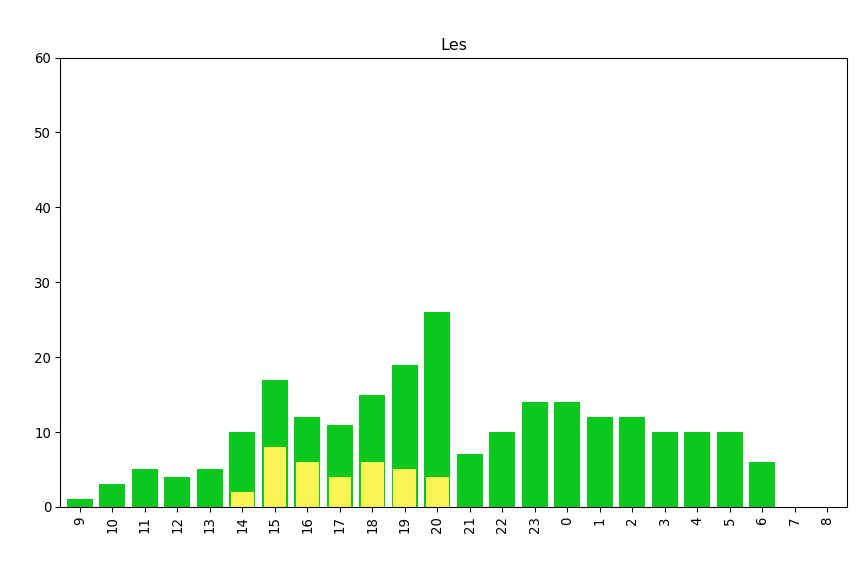
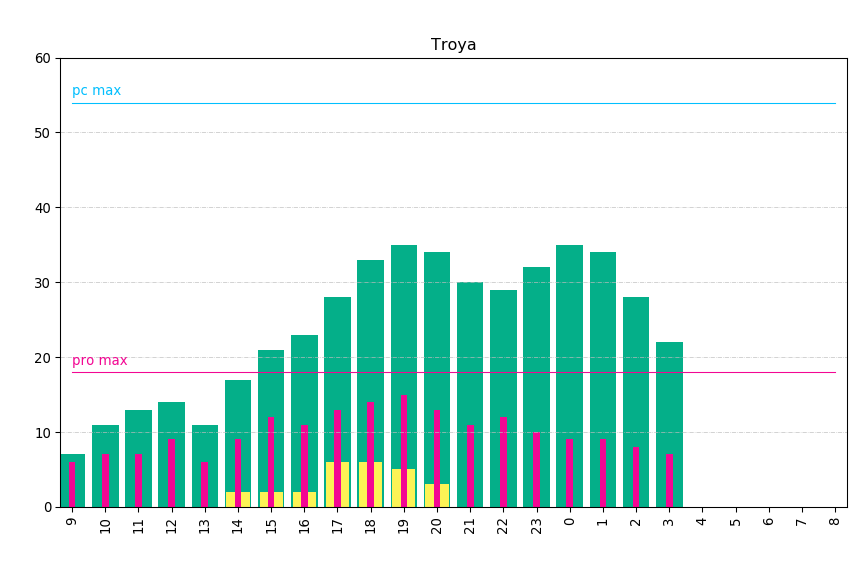
123

diff --git a/programm/gui/graph.py b/programm/gui/graph.py
@@ -247,6 +247,11 @@ class GraphicsWidget(QtWidgets.QWidget):
                         controller_data=controller_data,
                         db_path=bd_path)
         stat_data = dproc.get_data(**data_stat_arg)
+
+
+        count_measurements_hour = dproc.measurements_hour(stat_data)
+
+
         if stat_data is None:
             log.warning("файл не является базой данных")
             return
@@ -254,6 +259,12 @@ class GraphicsWidget(QtWidgets.QWidget):
             log.warning("нет данных")
             return
         else:
+            every_hour_data = self._get_data_every_time(stat_data)
+
+            h_hours = every_hour_data["mhour"]
+            h_visitor = [int(round(x)) for x in every_hour_data["visitor"]]
+            h_school = [int(round(x)) for x in every_hour_data["school"]]
+
 
             pro_comp_list = map(str,
                                 current_club_cfg["pro_comp_list"])
@@ -263,44 +274,70 @@ class GraphicsWidget(QtWidgets.QWidget):
                             db_path=bd_path)
             data_table = dproc.get_data(**data_table_arg)
 
+            # пк указанные в списке pro_comp_list
             pro_data = data_table[
                 data_table["ncomp"].isin(pro_comp_list)]
 
             include_active_classes = current_club_cfg[
                 "include_active_classes"]
 
+            # пк класс которых значится как активные
+            # активные классы указны в списке include_active_classes
             active_pro_data = pro_data[
                 pro_data["class"].isin(include_active_classes)]
-            pro_average = dproc.average_hourly_values(active_pro_data, ["visitor", "school"])
+            # pd.DataFrame columns=["mhour","mean"] mean:float(0, ..)
+            # средние показатели в посетителях покаждому часу
+            pro_mean = dproc.mean_hourly_data(h_hours,
+                                              count_measurements_hour,
+                                              active_pro_data)
+            h_pro = [int(round(x)) for x in pro_mean["mean"]]
+
 
 
 
 
             # print(active_pro_data)
 
-            # every_hour_data = self._get_data_every_time(stat_data)
-            # print(every_hour_data)
-            # h_hours = every_hour_data["mhour"]
-            # h_visitor = [int(round(x)) for x in every_hour_data["visitor"]]
-            # h_school = [int(round(x)) for x in every_hour_data["school"]]
 
-            # self.plot_view.plot(h_hours,
-            #                     h_visitor,
-            #                     color=current_club_cfg["color"],
-            #                     y_limit=(0, current_club_cfg["graphics_max"]),
-            #                     width=current_club_cfg["width"],
-            #                     name="visitors", title=club_name)
-            #
-            # self.plot_view.plot(h_hours,
-            #                     h_school,
-            #                     color=current_club_cfg["school_color"],
-            #                     y_limit=(0, current_club_cfg["graphics_max"]),
-            #                     width=current_club_cfg["width"]-0.1,
-            #                     name="school")
-            #
-            #
-            #
-            # self.show_plot(self.plot_view)
+
+            self.plot_view.plot(h_hours,
+                                h_visitor,
+                                color=current_club_cfg["color"],
+                                y_limit=(0, current_club_cfg["graphics_max"]),
+                                width=current_club_cfg["width"],
+                                name="visitors", title=club_name)
+
+            self.plot_view.plot(h_hours,
+                                h_school,
+                                color=current_club_cfg["school_color"],
+                                y_limit=(0, current_club_cfg["graphics_max"]),
+                                width=current_club_cfg["width"]-0.1,
+                                name="school")
+
+
+
+            self.plot_view.plot(h_hours,
+                                h_pro,
+                                color=current_club_cfg["pro_color"],
+                                y_limit=(0, current_club_cfg["graphics_max"]),
+                                width=0.2,
+                                name="pro")
+
+            self.plot_view.add_horizontal_line(
+                current_club_cfg["max"],
+                len(h_pro),
+                color=current_club_cfg["max_pc_color"],
+                text="pc max")
+
+            self.plot_view.add_horizontal_line(
+                len(current_club_cfg["pro_comp_list"]),
+                len(h_hours),
+                color=current_club_cfg["pro_color"],
+                text="pro max")
+
+
+            # self.plot_view.set_grid()
+            self.show_plot(self.plot_view)
 
 
             # visitor_every = self._get_visitor_every_time(every_hour_data, "visitor")
@@ -383,11 +420,11 @@ class GraphicsWidget(QtWidgets.QWidget):
         #                     color=current_club_cfg["max_pc_color"],
         #                     text="pc max")
         #
-        #                 self.plot_view.add_horizontal_line(
-        #                     len(current_club_cfg["pro_comp_list"]),
-        #                     len(time),
-        #                     color=current_club_cfg["pro_color"],
-        #                     text="pro max")
+                        # self.plot_view.add_horizontal_line(
+                        #     len(current_club_cfg["pro_comp_list"]),
+                        #     len(time),
+                        #     color=current_club_cfg["pro_color"],
+                        #     text="pro max")
         #                 # self.plot_view.set_grid()
         #
         #                 average_people = self._get_average_people(

diff --git a/programm/dataproc/data_proc.py b/programm/dataproc/data_proc.py
@@ -1,7 +1,9 @@
 import datetime
 import os
 import sqlite3
+from collections import Counter
 import pandas as pd
+import numpy as np
 from programm import pth
 from programm.log import log as lg
 from programm.sql import sql_keeper as keeper
@@ -38,18 +40,34 @@ def get_data(table_name=None, controller_data=None,
         res = data
     return res
 
-def average_hourly_values(data, columns):
-    list_res = []
+def mean_hourly_data(h_hours, count_measurements_hour, data):
+    """
 
-    hour_lst = data["mhour"].unique()
-    club = data["club"]
-    date = data["dt"]
+    :param data: pd.DataFrame
+    :param h_hours: pd.Series
+    :param count_measurements_hour: int
+    :return: pd.DataFrame columns=["mhour", "mean"]
+    """
 
-    for h in hour_lst:
-        # lst = [date, h, 0, club]
-        ser = data[data["mhour"].between(h, h)]
-        print(ser)
-        print("----------------------")
-    #     lst.extend(ser[columns].mean())
-    #     list_res.append(lst)
-    # res = pd.DataFrame(list_res, columns=columns)
+    res = {}
+    for h in h_hours:
+        one_hour_data = data[data["mhour"].between(h, h)]
+        print(one_hour_data[["mhour", "mminute", "ncomp"]])
+        print("-------------")
+        # dict(minute=count comp) колличество пк каждые n минут
+        counter = Counter(one_hour_data["mminute"].tolist())
+        mean = sum(counter.values())/count_measurements_hour
+        res[h] = round(mean, 2)
+    return pd.DataFrame(list(res.items()), columns=["mhour", "mean"])
+
+
+def measurements_hour(data):
+    """
+
+    :param data:
+    :return: int
+    """
+    # mh = data[data["mhour"]>9]["mminute"].unique()
+    # mh.sort()
+    # TODO SDFG
+    return 12

diff --git a/programm/gui/plot/plot.py b/programm/gui/plot/plot.py
@@ -74,6 +74,7 @@ class Graphic:
         if title is not None:
             self.plots[name].set_title(title)
         self.plots[name].set_ylim(*self.y_limit)
+        self.plots[name].yaxis.grid(which="major", color='#BEBEBE', linestyle='dashdot', linewidth=0.5)
 
 
 
@@ -90,7 +91,7 @@ class Graphic:
             plt.plot([0, length - 1],
                      [height, height],
                      color=color, linewidth=0.8)
-            plt.annotate(text, xy=(length / 2, height + 1),
+            plt.annotate(text, xy=(0, height + 1),
                          color=color)
 
     def set_bg(self, color="lightgrey"):
@@ -115,5 +116,5 @@ class Graphic:
         else: p = pth.PLOT_PATH
         fig.savefig(p, dpi=96)
 
-    def set_grid(self, *args):
-        plt.grid()
+    # def set_grid(self, *args):
+    #     plt.yaxis.grid()(True, which='both')

diff --git a/programm/data_pd_ex/t1.py b/programm/data_pd_ex/t1.py
@@ -1,0 +1,11 @@
+
+import pandas as pd
+
+
+d = {14: 1.83, 15: 2.17, 16: 0.17}
+r = [d.keys(), d.values()]
+
+pd.Series
+
+df1 = pd.DataFrame(list(d.items()))
+print(df1)
